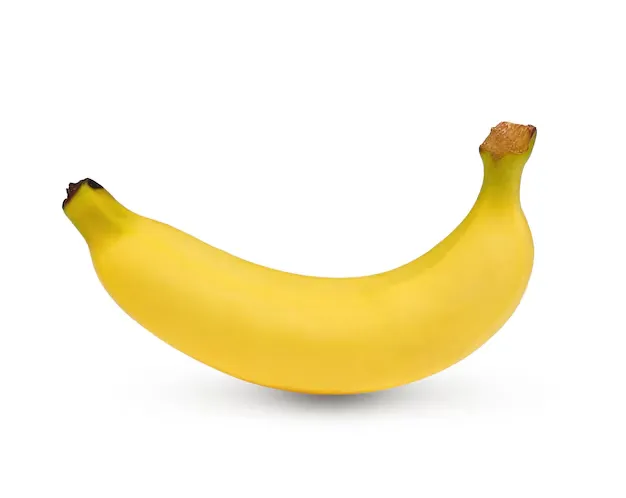
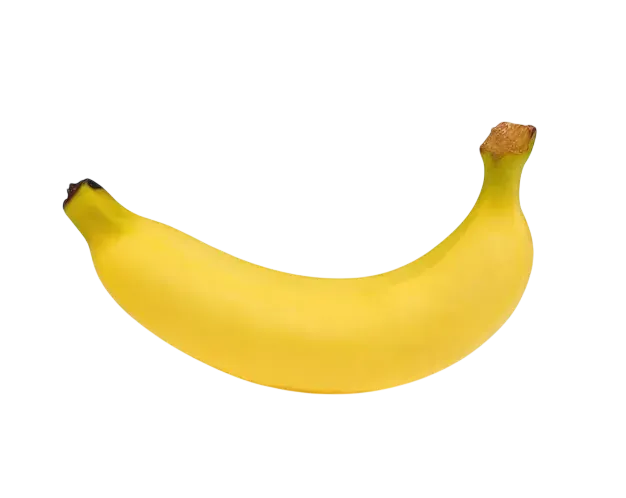
feat(catalog): redesign product detail template

diff --git a/apps/catalog/templates/catalog/redesign/product_detail.html b/apps/catalog/templates/catalog/redesign/product_detail.html
@@ -1,0 +1,108 @@
+{% extends "redesign/base.html" %}
+{% load static i18n %}
+
+{% block title %}{{ product.name }}{% endblock %}
+
+{% block content %}
+	<section class="flex flex-col gap-8">
+		<div class="flex flex-col">
+			{% include "redesign/includes/_breadcrumbs.html" with breadcrumbs=breadcrumbs %}
+		</div>
+
+		<div class="flex gap-8 max-md:flex-col">
+			<div class="sticky top-[109px] flex-1 self-start min-w-0 flex gap-2 max-md:static max-md:flex-col-reverse">
+			  <div id="thumbs" class="flex flex-col gap-2 max-md:flex-row">
+			    {% for image in product.images.all %}
+			      <div class="flex items-center bg-base-200 size-20 rounded-2xl overflow-hidden cursor-pointer border border-transparent" data-index="{{ forloop.counter0 }}">
+			        <img class="object-cover" src="{{ image.image.url }}" alt="" draggable="false">
+			      </div>
+			    {% endfor %}
+			  </div>
+
+			  <div id="embla" class="relative w-full aspect-square bg-base-200 rounded-2xl overflow-hidden">
+			    <div id="embla-container" class="flex h-full">
+			      {% if product.images.all %}
+			        {% for image in product.images.all %}
+			          <div class="flex-none basis-full min-w-0 h-full">
+			            <img class="w-full h-full object-contain" src="{{ image.image.url }}" alt="" draggable="false">
+			          </div>
+			        {% endfor %}
+			      {% else %}
+			        <div class="flex-none basis-full min-w-0 h-full">
+			          <img class="w-full h-full object-contain" src="{% static 'catalog/img/default-product-image.webp' %}" alt="" draggable="false">
+			        </div>
+			      {% endif %}
+			    </div>
+			  </div>
+			</div>
+
+			<div class="flex-1 min-w-0 flex flex-col gap-4">
+				<div class="flex flex-col gap-3 mb-4 font-bold">
+					<p class="inline-flex items-center gap-1 text-sm">
+						<svg class="size-4 fill-yellow-300" xmlns="http://www.w3.org/2000/svg" viewBox="0 0 24 24" fill="currentColor"><path fill-rule="evenodd" d="M13.3621 2.56546C12.826 1.40315 11.174 1.40315 10.6379 2.56546L8.50501 7.18955L3.44814 7.78912C2.17705 7.93983 1.66657 9.51091 2.60632 10.38L6.345 13.8374L5.35257 18.832C5.10311 20.0875 6.43955 21.0585 7.55647 20.4333L12 17.946L16.4435 20.4333C17.5604 21.0585 18.8969 20.0875 18.6474 18.832L17.655 13.8374L21.3937 10.38C22.3334 9.51091 21.8229 7.93983 20.5518 7.78912L15.495 7.18955L13.3621 2.56546Z" clip-rule="evenodd"></path></svg>
+					  <span class="text-base-content">4,74</span> <span class="text-base-content/60">(1428 оценок)</span>
+					</p>
+					<h1 class="font-bold text-base-content text-3xl max-md:text-2xl">{{ product.name }}</h1>
+
+					{% if product.discount %}
+				    <p class="inline-flex gap-2 items-baseline font-bold">
+		          <span class="text-2xl text-base-content p-2 bg-yellow-300 rounded-2xl">{{ product.final_price }} ₽</span>
+					    <span class="relative text-xl text-base-content/60 after:text-red-400 after:absolute after:left-0 after:right-0 after:top-1/2 after:h-px after:bg-current after:rotate-[-15deg]">{{ product.price }} ₽</span>
+				    </p>
+	        {% else %}
+						<p class="font-bold text-base-content text-2xl">{{ product.price }} ₽</p>
+					{% endif %}
+
+			    {% if product.stock %}
+	          {% if not product.pk in cart_product_pks %}
+	            <form action="{% url 'carts:cart-item-create' product_pk=product.pk %}" method="post" novalidate>
+	              {% csrf_token %}
+	              <button class="button button--primary w-[200px] max-md:w-full">{% trans "Add to Cart" %}</button>
+	            </form>
+	          {% else %}
+	            <button class="button button--disabled w-[200px] max-md:w-full" disabled>{% trans "In cart" %}</button>
+	          {% endif %}
+		      {% else %}
+		        <button class="button button--disabled w-[250px] max-md:w-full" disabled>{% trans "Not available" %}</button>
+		      {% endif %}
+				</div>
+
+				<div class="flex flex-col gap-1">
+					<h2 class="text-base-content text-lg font-bold">{% trans "Nutritional value" %}</h2>
+					<p class="text-base-content text-base">
+						{% trans "Proteins" %} – {{ product.nutrition.proteins|floatformat:"1u" }},
+						{% trans "fats" %} – {{ product.nutrition.fats|floatformat:"1u" }},
+						{% trans "carbs" %} – {{ product.nutrition.carbs|floatformat:"1u" }},
+						{% trans "calories" %} – {{ product.nutrition.calories|floatformat:"1u" }}
+					</p>
+				</div>
+
+				<div class="flex flex-col gap-1">
+					<h2 class="text-base-content text-lg font-bold">{% trans "Composition" %}</h2>
+					<p class="text-base-content text-base">{{ product.composition }}</p>
+				</div>
+
+				<div class="flex flex-col gap-1">
+					<h2 class="text-base-content text-lg font-bold">{% trans "Description" %}</h2>
+					<p class="text-base-content text-base">{{ product.description }}</p>
+				</div>
+
+				<div class="flex flex-col gap-1">
+					<h2 class="text-base-content text-lg font-bold">{% trans "Characteristics" %}</h2>
+					<ul class="flex flex-col gap-2">
+						{% for attribute, value in product.attributes.items %}
+							<li class="flex items-baseline gap-1">
+								<p class="text-base-content/60 whitespace-nowrap text-sm">{{ attribute }}</p>
+								<span class="flex-1 text-sm border-b border-dashed border-base-300"></span>
+								<p class="text-base-content text-sm text-right">
+									<span class="hidden max-md:inline">{{ value|truncatechars:20 }}</span>
+									<span class="max-md:hidden">{{ value }}</span>
+								</p>
+							</li>
+						{% endfor %}
+					</ul>
+				</div>
+			</div>
+		</div>
+	</section>
+{% endblock %}

diff --git a/static/js/carousel.js b/static/js/carousel.js
@@ -1,0 +1,23 @@
+document.addEventListener("DOMContentLoaded", () => {
+  const emblaNode = document.getElementById("embla")
+  if (!emblaNode) return
+
+  const embla = EmblaCarousel(emblaNode, { loop: true })
+  const thumbs = document.querySelectorAll("#thumbs [data-index]")
+
+  thumbs.forEach(el => {
+    el.addEventListener("click", () => embla.scrollTo(+el.dataset.index))
+  })
+
+  const updateThumbs = () => {
+    const active = embla.selectedScrollSnap()
+    thumbs.forEach(el => {
+      const isActive = +el.dataset.index === active
+      el.classList.toggle("border-base-300", isActive)
+      el.classList.toggle("border-transparent", !isActive)
+    })
+  }
+
+  embla.on("select", updateThumbs)
+  updateThumbs()
+})

diff --git a/templates/redesign/includes/_header.html b/templates/redesign/includes/_header.html
@@ -1,9 +1,9 @@
 {% load static i18n %}
 
-<header class="bg-base-100 select-none sticky h-[77px] inset-x-0 top-0 z-10 border-b border-base-300">
+<header class="bg-base-100 select-none sticky h-[80px] inset-x-0 top-0 z-10 border-b border-base-300">
 	<div class="flex items-center justify-between gap-8 py-4 px-8 max-md:px-4 max-w-page mx-auto">
 		<a class="flex items-center gap-2" href="{% url 'pages:home' %}">
-			<img class="size-11" src="{% static 'img/logo.png' %}" alt="" draggable="false">
+			<img class="size-12" src="{% static 'img/logo.png' %}" alt="" draggable="false">
 			<div>
 				<p class="font-bold text-base text-base-content leading-none">Марлин</p>
 				<small class="text-xs text-base-content/60 leading-none block">{% trans "Fresh products near you" %}</small>
@@ -19,26 +19,27 @@
 			<nav class="max-md:hidden">
 				<ul class="flex items-end justify-center gap-8 text-sm">
 					<li>
-						<a class="flex flex-col items-center link text-sm {% if current_view_name == 'catalog:category-list' %}link--active{% endif %}" href="{% url 'catalog:category-list' %}">
+						<a class="flex flex-col items-center justify-center h-12 link text-sm {% if current_view_name == 'catalog:category-list' %}link--active{% endif %}" href="{% url 'catalog:category-list' %}">
 							<svg class="size-6" xmlns="http://www.w3.org/2000/svg" viewBox="0 0 256 256" fill="currentColor"><g stroke-width="0"></g><g stroke-linecap="round" stroke-linejoin="round"></g><g><path d="M120,48v64a7.9954,7.9954,0,0,1-8,8H48a7.99539,7.99539,0,0,1-8-8V48a7.99539,7.99539,0,0,1,8-8h64A7.9954,7.9954,0,0,1,120,48Zm88-8H144a7.99539,7.99539,0,0,0-8,8v64a7.99539,7.99539,0,0,0,8,8h64a7.9954,7.9954,0,0,0,8-8V48A7.9954,7.9954,0,0,0,208,40Zm-96,96H48a7.99539,7.99539,0,0,0-8,8v64a7.99539,7.99539,0,0,0,8,8h64a7.9954,7.9954,0,0,0,8-8V144A7.9954,7.9954,0,0,0,112,136Zm96,0H144a7.99539,7.99539,0,0,0-8,8v64a7.99539,7.99539,0,0,0,8,8h64a7.9954,7.9954,0,0,0,8-8V144A7.9954,7.9954,0,0,0,208,136Z"></path></g></svg>
 							{% trans "Catalog" %}
 						</a>
 					</li>
 					<li>
-	          <a class="flex flex-col items-center link text-sm {% if current_view_name == 'carts:detail' %}link--active{% endif %}" href="{% url 'carts:detail' %}">
+	          <a class="flex flex-col items-center justify-center h-12 link text-sm {% if current_view_name == 'carts:detail' %}link--active{% endif %}" href="{% url 'carts:detail' %}">
 		          <svg class="size-6" xmlns="http://www.w3.org/2000/svg" viewBox="0 0 24 24" fill="currentColor"><g stroke-width="0"></g><g stroke-linecap="round" stroke-linejoin="round"></g><g><path fill-rule="evenodd" clip-rule="evenodd" d="M5.57386 4.69147C4.74068 5.38295 4.52122 6.55339 4.08231 8.89427L3.33231 12.8943C2.71512 16.186 2.40652 17.8318 3.30624 18.9159C4.20595 20 5.88048 20 9.22954 20H14.7704C18.1195 20 19.794 20 20.6937 18.9159C21.5934 17.8318 21.2849 16.186 20.6677 12.8943L19.9177 8.89427C19.4787 6.55339 19.2593 5.38295 18.4261 4.69147C17.5929 4 16.4021 4 14.0204 4H9.97954C7.59787 4 6.40703 4 5.57386 4.69147ZM9.87822 7.75007C10.1875 8.62497 11.0219 9.25 12.0004 9.25C12.9789 9.25 13.8133 8.62497 14.1225 7.75007C14.2606 7.35953 14.6891 7.15483 15.0796 7.29287C15.4701 7.43091 15.6748 7.8594 15.5368 8.24993C15.0224 9.70541 13.6343 10.75 12.0004 10.75C10.3664 10.75 8.97839 9.70541 8.46396 8.24993C8.32592 7.8594 8.53061 7.43091 8.92115 7.29287C9.31169 7.15483 9.74018 7.35953 9.87822 7.75007Z"></path></g></svg>
 		          {% trans "Cart" %}
 	          </a>
 					</li>
 					{% if not request.user.is_authenticated %}
 						<li>
-							<a class="flex flex-col items-center link text-sm {% if current_view_name == 'accounts:signin' %}link--active{% endif %}" href="{% url 'accounts:signin' %}"><svg class="w-6 h-6" xmlns="http://www.w3.org/2000/svg" viewBox="0 0 24 24" fill="none"><g stroke-width="0"></g><g stroke-linecap="round" stroke-linejoin="round"></g><g><path d="M20 12C20 7.58172 16.4183 4 12 4M12 20C14.5264 20 16.7792 18.8289 18.2454 17" stroke="currentColor" stroke-width="1.5" stroke-linecap="round"></path><path d="M4 12H14M14 12L11 9M14 12L11 15" stroke="currentColor" stroke-width="1.5" stroke-linecap="round" stroke-linejoin="round"></path></g></svg>
+							<a class="flex flex-col items-center justify-center h-12 link text-sm {% if current_view_name == 'accounts:signin' %}link--active{% endif %}" href="{% url 'accounts:signin' %}">
+								<svg class="size-6" xmlns="http://www.w3.org/2000/svg" viewBox="0 0 24 24" fill="none"><g stroke-width="0"></g><g stroke-linecap="round" stroke-linejoin="round"></g><g><path d="M20 12C20 7.58172 16.4183 4 12 4M12 20C14.5264 20 16.7792 18.8289 18.2454 17" stroke="currentColor" stroke-width="1.5" stroke-linecap="round"></path><path d="M4 12H14M14 12L11 9M14 12L11 15" stroke="currentColor" stroke-width="1.5" stroke-linecap="round" stroke-linejoin="round"></path></g></svg>
 								{% trans "Sign in" %}
 							</a>
 						</li>
 					{% else %}
 						<li>
-							<a class="flex flex-col items-center link text-sm {% if current_view_name == 'accounts:profile' %}link--active{% endif %}" href="{% url 'accounts:profile' %}">
+							<a class="flex flex-col items-center justify-center h-12 link text-sm {% if current_view_name == 'accounts:profile' %}link--active{% endif %}" href="{% url 'accounts:profile' %}">
 								<svg class="size-6" xmlns="http://www.w3.org/2000/svg" viewBox="0 0 24 24" fill="currentColor"><path d="M16.5454 8.82505C16.5454 11.5028 14.3746 13.6735 11.6969 13.6735C9.01913 13.6735 6.84839 11.5028 6.84839 8.82505C6.84839 6.1473 9.01913 3.97656 11.6969 3.97656C14.3746 3.97656 16.5454 6.1473 16.5454 8.82505Z"></path><path d="M7.63062 14.6484C5.01417 15.8674 2.96437 18.1474 1.99988 20.9549H21.9999C21.0354 18.1474 18.9856 15.8674 16.3691 14.6484C15.1527 15.564 13.6396 16.1067 11.9999 16.1067C10.3601 16.1067 8.84709 15.564 7.63062 14.6484Z"></path></svg>
 								{{ request.user.first_name }}
 							</a>
@@ -46,7 +47,7 @@
 						<li>
 							<form action="{% url 'accounts:signout' %}" method="post">
 								{% csrf_token %}
-			          <button class="flex flex-col items-center link text-sm" type="submit">
+			          <button class="flex flex-col items-center justify-center h-12 link text-sm" type="submit">
 									<svg class="size-6" xmlns="http://www.w3.org/2000/svg" viewBox="0 0 24 24" fill="none"><g stroke-width="0"></g><g stroke-linecap="round" stroke-linejoin="round"></g><g><path d="M10 12H20M20 12L17 9M20 12L17 15" stroke="currentColor" stroke-width="1.5" stroke-linecap="round" stroke-linejoin="round"></path> <path d="M4 12C4 7.58172 7.58172 4 12 4M12 20C9.47362 20 7.22075 18.8289 5.75463 17" stroke="currentColor" stroke-width="1.5" stroke-linecap="round"></path></g></svg>
 				          {% trans "Sign out" %}
 			          </button>
@@ -63,7 +64,7 @@
 			</button>
 
 			<div id="mobile-menu" class="fixed top-0 right-0 bottom-0 w-full bg-base-100 z-20 translate-x-full transition-transform duration-300 ease-in-out min-md:hidden">
-				<div class="flex items-center justify-between py-2 px-4 mx-auto border-b border-base-300 h-[77px]">
+				<div class="flex items-center justify-between py-2 px-4 mx-auto border-b border-base-300 h-[80px]">
 					<span class="font-bold">{% trans "Menu" %}</span>
 					<button id="close-mobile-menu-btn" class="flex items-center justify-center size-8 link">
 					  <svg class="size-6" xmlns="http://www.w3.org/2000/svg" viewBox="0 0 24 24" fill="none">
@@ -87,7 +88,8 @@
 						</li>
 						{% if not request.user.is_authenticated %}
 							<li>
-								<a class="flex items-center gap-2 link text-sm {% if current_view_name == 'accounts:signin' %}link--active{% endif %}" href="{% url 'accounts:signin' %}"><svg class="w-6 h-6" xmlns="http://www.w3.org/2000/svg" viewBox="0 0 24 24" fill="none"><g stroke-width="0"></g><g stroke-linecap="round" stroke-linejoin="round"></g><g><path d="M20 12C20 7.58172 16.4183 4 12 4M12 20C14.5264 20 16.7792 18.8289 18.2454 17" stroke="currentColor" stroke-width="1.5" stroke-linecap="round"></path><path d="M4 12H14M14 12L11 9M14 12L11 15" stroke="currentColor" stroke-width="1.5" stroke-linecap="round" stroke-linejoin="round"></path></g></svg>
+								<a class="flex items-center gap-2 link text-sm {% if current_view_name == 'accounts:signin' %}link--active{% endif %}" href="{% url 'accounts:signin' %}">
+									<svg class="size-6" xmlns="http://www.w3.org/2000/svg" viewBox="0 0 24 24" fill="none"><g stroke-width="0"></g><g stroke-linecap="round" stroke-linejoin="round"></g><g><path d="M20 12C20 7.58172 16.4183 4 12 4M12 20C14.5264 20 16.7792 18.8289 18.2454 17" stroke="currentColor" stroke-width="1.5" stroke-linecap="round"></path><path d="M4 12H14M14 12L11 9M14 12L11 15" stroke="currentColor" stroke-width="1.5" stroke-linecap="round" stroke-linejoin="round"></path></g></svg>
 									{% trans "Sign in" %}
 								</a>
 							</li>

diff --git a/static/css/redesign/input.css b/static/css/redesign/input.css
@@ -31,14 +31,18 @@
   }
 
   .input {
-    @apply rounded-full text-base py-3 px-6 outline-none bg-base-200 text-base-content;
+    @apply rounded-full text-base px-5 py-3 h-12 bg-base-100 outline-none text-base-content border border-base-300;
   }
 
   .button {
-    @apply rounded-full font-semibold text-base transition duration-300 ease-in-out py-3 px-6;
+    @apply rounded-full text-base px-5 py-3 h-12 cursor-pointer font-semibold transition duration-300 ease-in-out;
   }
 
   .button--primary {
     @apply bg-primary text-primary-content hover:bg-primary/80;
+  }
+
+  .button--disabled {
+    @apply cursor-default text-primary-content !bg-primary/80;
   }
 }

diff --git a/templates/redesign/base.html b/templates/redesign/base.html
@@ -17,12 +17,14 @@
 	</head>
 	<body class="flex flex-col font-body bg-base-100 font-medium relative min-h-screen min-h-[100dvh]">
 		{% include "redesign/includes/_header.html" %}
-			<main class="flex flex-col flex-[1_0_auto] {% block mix %}{% endblock %}">
+			<main class="flex flex-col flex-auto {% block mix %}{% endblock %}">
 		    <div class="w-full max-w-page mx-auto p-8 max-md:p-4">
 	        {% block content %}{% endblock %}
 		    </div>
 			</main>
 		{% include "redesign/includes/_footer.html" %}
+		<script src="{% static 'js/embla-carousel.umd.js' %}"></script>
+	  <script src="{% static 'js/carousel.js' %}"></script>
 		{% block js %}{% endblock %}
 	</body>
 </html>

diff --git a/templates/redesign/includes/_breadcrumbs.html b/templates/redesign/includes/_breadcrumbs.html
@@ -1,5 +1,5 @@
 <nav>
-	<ul class="flex items-center">
+	<ul class="flex items-center flex-wrap">
 		{% for breadcrumb in breadcrumbs %}
       {% if not forloop.last %}
 				<li class="inline-flex items-center after:content-['/'] after:mx-2 after:text-base-content/60 after:text-sm">

diff --git a/static/js/embla-carousel.umd.js b/static/js/embla-carousel.umd.js
@@ -1,0 +1,1 @@
+!function(n,t){"object"==typeof exports&&"undefined"!=typeof module?module.exports=t():"function"==typeof define&&define.amd?define(t):(n="undefined"!=typeof globalThis?globalThis:n||self).EmblaCarousel=t()}(this,(function(){"use strict";function n(n){return"number"==typeof n}function t(n){return"string"==typeof n}function e(n){return"boolean"==typeof n}function r(n){return"[object Object]"===Object.prototype.toString.call(n)}function o(n){return Math.abs(n)}function i(n){return Math.sign(n)}function c(n,t){return o(n-t)}function u(n){return f(n).map(Number)}function s(n){return n[a(n)]}function a(n){return Math.max(0,n.length-1)}function d(n,t){return t===a(n)}function l(n,t=0){return Array.from(Array(n),((n,e)=>t+e))}function f(n){return Object.keys(n)}function p(n,t){return[n,t].reduce(((n,t)=>(f(t).forEach((e=>{const o=n[e],i=t[e],c=r(o)&&r(i);n[e]=c?p(o,i):i})),n)),{})}function m(n,t){return void 0!==t.MouseEvent&&n instanceof t.MouseEvent}function g(){let n=[];const t={add:function(e,r,o,i={passive:!0}){let c;if("addEventListener"in e)e.addEventListener(r,o,i),c=()=>e.removeEventListener(r,o,i);else{const n=e;n.addListener(o),c=()=>n.removeListener(o)}return n.push(c),t},clear:function(){n=n.filter((n=>n()))}};return t}function h(n,t,e,r){const o=g(),i=1e3/60;let c=null,u=0,s=0;function a(n){if(!s)return;c||(c=n,e(),e());const o=n-c;for(c=n,u+=o;u>=i;)e(),u-=i;r(u/i),s&&(s=t.requestAnimationFrame(a))}function d(){t.cancelAnimationFrame(s),c=null,u=0,s=0}return{init:function(){o.add(n,"visibilitychange",(()=>{n.hidden&&(c=null,u=0)}))},destroy:function(){d(),o.clear()},start:function(){s||(s=t.requestAnimationFrame(a))},stop:d,update:e,render:r}}function x(n=0,t=0){const e=o(n-t);function r(t){return t<n}function i(n){return n>t}function c(n){return r(n)||i(n)}return{length:e,max:t,min:n,constrain:function(e){return c(e)?r(e)?n:t:e},reachedAny:c,reachedMax:i,reachedMin:r,removeOffset:function(n){return e?n-e*Math.ceil((n-t)/e):n}}}function y(n,t,e){const{constrain:r}=x(0,n),i=n+1;let c=u(t);function u(n){return e?o((i+n)%i):r(n)}function s(){return c}function a(){return y(n,s(),e)}const d={get:s,set:function(n){return c=u(n),d},add:function(n){return a().set(s()+n)},clone:a};return d}function v(n,t,r,u,s,a,d,l,f,p,h,y,v,b,S,w,E,L,D){const{cross:I,direction:M}=n,A=["INPUT","SELECT","TEXTAREA"],F={passive:!1},T=g(),O=g(),P=x(50,225).constrain(b.measure(20)),z={mouse:300,touch:400},H={mouse:500,touch:600},k=S?43:25;let V=!1,B=0,C=0,N=!1,R=!1,j=!1,G=!1;function q(n){if(!m(n,u)&&n.touches.length>=2)return U(n);const t=a.readPoint(n),e=a.readPoint(n,I),r=c(t,B),o=c(e,C);if(!R&&!G){if(!n.cancelable)return U(n);if(R=r>o,!R)return U(n)}const i=a.pointerMove(n);r>w&&(j=!0),p.useFriction(.3).useDuration(.75),l.start(),s.add(M(i)),n.preventDefault()}function U(n){const t=h.byDistance(0,!1).index!==y.get(),e=a.pointerUp(n)*(S?H:z)[G?"mouse":"touch"],r=function(n,t){const e=y.add(-1*i(n)),r=h.byDistance(n,!S).distance;return S||o(n)<P?r:E&&t?.5*r:h.byIndex(e.get(),0).distance}(M(e),t),u=function(n,t){if(0===n||0===t)return 0;if(o(n)<=o(t))return 0;const e=c(o(n),o(t));return o(e/n)}(e,r),s=k-10*u,d=L+u/50;R=!1,N=!1,O.clear(),p.useDuration(s).useFriction(d),f.distance(r,!S),G=!1,v.emit("pointerUp")}function W(n){j&&(n.stopPropagation(),n.preventDefault(),j=!1)}return{init:function(n){if(!D)return;function o(o){(e(D)||D(n,o))&&function(n){const e=m(n,u);if(G=e,j=S&&e&&!n.buttons&&V,V=c(s.get(),d.get())>=2,e&&0!==n.button)return;if(function(n){const t=n.nodeName||"";return A.includes(t)}(n.target))return;N=!0,a.pointerDown(n),p.useFriction(0).useDuration(0),s.set(d),function(){const n=G?r:t;O.add(n,"touchmove",q,F).add(n,"touchend",U).add(n,"mousemove",q,F).add(n,"mouseup",U)}(),B=a.readPoint(n),C=a.readPoint(n,I),v.emit("pointerDown")}(o)}const i=t;T.add(i,"dragstart",(n=>n.preventDefault()),F).add(i,"touchmove",(()=>{}),F).add(i,"touchend",(()=>{})).add(i,"touchstart",o).add(i,"mousedown",o).add(i,"touchcancel",U).add(i,"contextmenu",U).add(i,"click",W,!0)},destroy:function(){T.clear(),O.clear()},pointerDown:function(){return N}}}function b(n,t){let e,r;function i(n){return n.timeStamp}function c(e,r){const o="client"+("x"===(r||n.scroll)?"X":"Y");return(m(e,t)?e:e.touches[0])[o]}return{pointerDown:function(n){return e=n,r=n,c(n)},pointerMove:function(n){const t=c(n)-c(r),o=i(n)-i(e)>170;return r=n,o&&(e=n),t},pointerUp:function(n){if(!e||!r)return 0;const t=c(r)-c(e),u=i(n)-i(e),s=i(n)-i(r)>170,a=t/u;return u&&!s&&o(a)>.1?a:0},readPoint:c}}function S(n,t,r,i,c,u,s){const a=[n].concat(i);let d,l,f=[],p=!1;function m(n){return c.measureSize(s.measure(n))}return{init:function(c){u&&(l=m(n),f=i.map(m),d=new ResizeObserver((r=>{(e(u)||u(c,r))&&function(e){for(const r of e){if(p)return;const e=r.target===n,u=i.indexOf(r.target),s=e?l:f[u];if(o(m(e?n:i[u])-s)>=.5){c.reInit(),t.emit("resize");break}}}(r)})),r.requestAnimationFrame((()=>{a.forEach((n=>d.observe(n)))})))},destroy:function(){p=!0,d&&d.disconnect()}}}function w(n,t,e,r,i){const c=i.measure(10),u=i.measure(50),s=x(.1,.99);let a=!1;function d(){return!a&&(!!n.reachedAny(e.get())&&!!n.reachedAny(t.get()))}return{shouldConstrain:d,constrain:function(i){if(!d())return;const a=n.reachedMin(t.get())?"min":"max",l=o(n[a]-t.get()),f=e.get()-t.get(),p=s.constrain(l/u);e.subtract(f*p),!i&&o(f)<c&&(e.set(n.constrain(e.get())),r.useDuration(25).useBaseFriction())},toggleActive:function(n){a=!n}}}function E(n,t,e,r){const o=t.min+.1,i=t.max+.1,{reachedMin:c,reachedMax:u}=x(o,i);return{loop:function(t){if(!function(n){return 1===n?u(e.get()):-1===n&&c(e.get())}(t))return;const o=n*(-1*t);r.forEach((n=>n.add(o)))}}}function L(n,t,e,r,c){const{reachedAny:u,removeOffset:a,constrain:d}=r;function l(n){return n.concat().sort(((n,t)=>o(n)-o(t)))[0]}function f(t,r){const o=[t,t+e,t-e];if(!n)return t;if(!r)return l(o);const c=o.filter((n=>i(n)===r));return c.length?l(c):s(o)-e}return{byDistance:function(e,r){const i=c.get()+e,{index:s,distance:l}=function(e){const r=n?a(e):d(e),i=t.map(((n,t)=>({diff:f(n-r,0),index:t}))).sort(((n,t)=>o(n.diff)-o(t.diff))),{index:c}=i[0];return{index:c,distance:r}}(i),p=!n&&u(i);return!r||p?{index:s,distance:e}:{index:s,distance:e+f(t[s]-l,0)}},byIndex:function(n,e){return{index:n,distance:f(t[n]-c.get(),e)}},shortcut:f}}function D(t,r,o,i,c,u,s,a){const d={passive:!0,capture:!0};let l=0;function f(n){"Tab"===n.code&&(l=(new Date).getTime())}return{init:function(p){a&&(u.add(document,"keydown",f,!1),r.forEach(((r,f)=>{u.add(r,"focus",(r=>{(e(a)||a(p,r))&&function(e){if((new Date).getTime()-l>10)return;s.emit("slideFocusStart"),t.scrollLeft=0;const r=o.findIndex((n=>n.includes(e)));n(r)&&(c.useDuration(0),i.index(r,0),s.emit("slideFocus"))}(f)}),d)})))}}}function I(t){let e=t;function r(t){return n(t)?t:t.get()}return{get:function(){return e},set:function(n){e=r(n)},add:function(n){e+=r(n)},subtract:function(n){e-=r(n)}}}function M(n,t){const e="x"===n.scroll?function(n){return`translate3d(${n}px,0px,0px)`}:function(n){return`translate3d(0px,${n}px,0px)`},r=t.style;let o=null,i=!1;return{clear:function(){i||(r.transform="",t.getAttribute("style")||t.removeAttribute("style"))},to:function(t){if(i)return;const c=(u=n.direction(t),Math.round(100*u)/100);var u;c!==o&&(r.transform=e(c),o=c)},toggleActive:function(n){i=!n}}}function A(n,t,e,r,o,i,c,s,a){const d=.5,l=u(o),f=u(o).reverse(),p=function(){const n=c[0];return h(g(f,n),e,!1)}().concat(function(){const n=t-c[0]-1;return h(g(l,n),-e,!0)}());function m(n,t){return n.reduce(((n,t)=>n-o[t]),t)}function g(n,t){return n.reduce(((n,e)=>m(n,t)>0?n.concat([e]):n),[])}function h(o,c,u){const l=function(n){return i.map(((e,o)=>({start:e-r[o]+d+n,end:e+t-d+n})))}(c);return o.map((t=>{const r=u?0:-e,o=u?e:0,i=u?"end":"start",c=l[t][i];return{index:t,loopPoint:c,slideLocation:I(-1),translate:M(n,a[t]),target:()=>s.get()>c?r:o}}))}return{canLoop:function(){return p.every((({index:n})=>m(l.filter((t=>t!==n)),t)<=.1))},clear:function(){p.forEach((n=>n.translate.clear()))},loop:function(){p.forEach((n=>{const{target:t,translate:e,slideLocation:r}=n,o=t();o!==r.get()&&(e.to(o),r.set(o))}))},loopPoints:p}}function F(n,t,r){let o,i=!1;return{init:function(c){r&&(o=new MutationObserver((n=>{i||(e(r)||r(c,n))&&function(n){for(const e of n)if("childList"===e.type){c.reInit(),t.emit("slidesChanged");break}}(n)})),o.observe(n,{childList:!0}))},destroy:function(){o&&o.disconnect(),i=!0}}}function T(n,t,e,r){const o={};let i,c=null,u=null,s=!1;return{init:function(){i=new IntersectionObserver((n=>{s||(n.forEach((n=>{const e=t.indexOf(n.target);o[e]=n})),c=null,u=null,e.emit("slidesInView"))}),{root:n.parentElement,threshold:r}),t.forEach((n=>i.observe(n)))},destroy:function(){i&&i.disconnect(),s=!0},get:function(n=!0){if(n&&c)return c;if(!n&&u)return u;const t=function(n){return f(o).reduce(((t,e)=>{const r=parseInt(e),{isIntersecting:i}=o[r];return(n&&i||!n&&!i)&&t.push(r),t}),[])}(n);return n&&(c=t),n||(u=t),t}}}function O(t,e,r,i,c,d,l,f,p){const{startEdge:m,endEdge:g,direction:h}=t,x=n(r);return{groupSlides:function(n){return x?function(n,t){return u(n).filter((n=>n%t==0)).map((e=>n.slice(e,e+t)))}(n,r):function(n){return n.length?u(n).reduce(((t,r,u)=>{const x=s(t)||0,y=0===x,v=r===a(n),b=c[m]-d[x][m],S=c[m]-d[r][g],w=!i&&y?h(l):0,E=o(S-(!i&&v?h(f):0)-(b+w));return u&&E>e+p&&t.push(r),v&&t.push(n.length),t}),[]).map(((t,e,r)=>{const o=Math.max(r[e-1]||0);return n.slice(o,t)})):[]}(n)}}}function P(n,e,r,f,p,m,P){const{align:z,axis:H,direction:k,startIndex:V,loop:B,duration:C,dragFree:N,dragThreshold:R,inViewThreshold:j,slidesToScroll:G,skipSnaps:q,containScroll:U,watchResize:W,watchSlides:$,watchDrag:Q,watchFocus:X}=m,Y={measure:function(n){const{offsetTop:t,offsetLeft:e,offsetWidth:r,offsetHeight:o}=n;return{top:t,right:e+r,bottom:t+o,left:e,width:r,height:o}}},J=Y.measure(e),K=r.map(Y.measure),Z=function(n,t){const e="rtl"===t,r="y"===n,o=!r&&e?-1:1;return{scroll:r?"y":"x",cross:r?"x":"y",startEdge:r?"top":e?"right":"left",endEdge:r?"bottom":e?"left":"right",measureSize:function(n){const{height:t,width:e}=n;return r?t:e},direction:function(n){return n*o}}}(H,k),_=Z.measureSize(J),nn=function(n){return{measure:function(t){return n*(t/100)}}}(_),tn=function(n,e){const r={start:function(){return 0},center:function(n){return o(n)/2},end:o};function o(n){return e-n}return{measure:function(o,i){return t(n)?r[n](o):n(e,o,i)}}}(z,_),en=!B&&!!U,rn=B||!!U,{slideSizes:on,slideSizesWithGaps:cn,startGap:un,endGap:sn}=function(n,t,e,r,i,c){const{measureSize:u,startEdge:a,endEdge:l}=n,f=e[0]&&i,p=function(){if(!f)return 0;const n=e[0];return o(t[a]-n[a])}(),m=function(){if(!f)return 0;const n=c.getComputedStyle(s(r));return parseFloat(n.getPropertyValue(`margin-${l}`))}(),g=e.map(u),h=e.map(((n,t,e)=>{const r=!t,o=d(e,t);return r?g[t]+p:o?g[t]+m:e[t+1][a]-n[a]})).map(o);return{slideSizes:g,slideSizesWithGaps:h,startGap:p,endGap:m}}(Z,J,K,r,rn,p),an=O(Z,_,G,B,J,K,un,sn,2),{snaps:dn,snapsAligned:ln}=function(n,t,e,r,i){const{startEdge:c,endEdge:u}=n,{groupSlides:a}=i,d=a(r).map((n=>s(n)[u]-n[0][c])).map(o).map(t.measure),l=r.map((n=>e[c]-n[c])).map((n=>-o(n))),f=a(l).map((n=>n[0])).map(((n,t)=>n+d[t]));return{snaps:l,snapsAligned:f}}(Z,tn,J,K,an),fn=-s(dn)+s(cn),{snapsContained:pn,scrollContainLimit:mn}=function(n,t,e,r,o){const i=x(-t+n,0),u=e.map(((n,t)=>{const{min:r,max:o}=i,c=i.constrain(n),u=!t,s=d(e,t);return u?o:s||l(r,c)?r:l(o,c)?o:c})).map((n=>parseFloat(n.toFixed(3)))),a=function(){const n=u[0],t=s(u);return x(u.lastIndexOf(n),u.indexOf(t)+1)}();function l(n,t){return c(n,t)<=1}return{snapsContained:function(){if(t<=n+o)return[i.max];if("keepSnaps"===r)return u;const{min:e,max:c}=a;return u.slice(e,c)}(),scrollContainLimit:a}}(_,fn,ln,U,2),gn=en?pn:ln,{limit:hn}=function(n,t,e){const r=t[0];return{limit:x(e?r-n:s(t),r)}}(fn,gn,B),xn=y(a(gn),V,B),yn=xn.clone(),vn=u(r),bn=h(f,p,(()=>(({dragHandler:n,scrollBody:t,scrollBounds:e,options:{loop:r}})=>{r||e.constrain(n.pointerDown()),t.seek()})(Hn)),(n=>(({scrollBody:n,translate:t,location:e,offsetLocation:r,previousLocation:o,scrollLooper:i,slideLooper:c,dragHandler:u,animation:s,eventHandler:a,scrollBounds:d,options:{loop:l}},f)=>{const p=n.settled(),m=!d.shouldConstrain(),g=l?p:p&&m,h=g&&!u.pointerDown();h&&s.stop();const x=e.get()*f+o.get()*(1-f);r.set(x),l&&(i.loop(n.direction()),c.loop()),t.to(r.get()),h&&a.emit("settle"),g||a.emit("scroll")})(Hn,n))),Sn=gn[xn.get()],wn=I(Sn),En=I(Sn),Ln=I(Sn),Dn=I(Sn),In=function(n,t,e,r,c,u){let s=0,a=0,d=c,l=u,f=n.get(),p=0;function m(n){return d=n,h}function g(n){return l=n,h}const h={direction:function(){return a},duration:function(){return d},velocity:function(){return s},seek:function(){const t=r.get()-n.get();let o=0;return d?(e.set(n),s+=t/d,s*=l,f+=s,n.add(s),o=f-p):(s=0,e.set(r),n.set(r),o=t),a=i(o),p=f,h},settled:function(){return o(r.get()-t.get())<.001},useBaseFriction:function(){return g(u)},useBaseDuration:function(){return m(c)},useFriction:g,useDuration:m};return h}(wn,Ln,En,Dn,C,.68),Mn=L(B,gn,fn,hn,Dn),An=function(n,t,e,r,o,i,c){function u(o){const u=o.distance,s=o.index!==t.get();i.add(u),u&&(r.duration()?n.start():(n.update(),n.render(1),n.update())),s&&(e.set(t.get()),t.set(o.index),c.emit("select"))}return{distance:function(n,t){u(o.byDistance(n,t))},index:function(n,e){const r=t.clone().set(n);u(o.byIndex(r.get(),e))}}}(bn,xn,yn,In,Mn,Dn,P),Fn=function(n){const{max:t,length:e}=n;return{get:function(n){return e?(n-t)/-e:0}}}(hn),Tn=g(),On=T(e,r,P,j),{slideRegistry:Pn}=function(n,t,e,r,o,i){const{groupSlides:c}=o,{min:u,max:f}=r;return{slideRegistry:function(){const r=c(i),o=!n||"keepSnaps"===t;return 1===e.length?[i]:o?r:r.slice(u,f).map(((n,t,e)=>{const r=!t,o=d(e,t);return r?l(s(e[0])+1):o?l(a(i)-s(e)[0]+1,s(e)[0]):n}))}()}}(en,U,gn,mn,an,vn),zn=D(n,r,Pn,An,In,Tn,P,X),Hn={ownerDocument:f,ownerWindow:p,eventHandler:P,containerRect:J,slideRects:K,animation:bn,axis:Z,dragHandler:v(Z,n,f,p,Dn,b(Z,p),wn,bn,An,In,Mn,xn,P,nn,N,R,q,.68,Q),eventStore:Tn,percentOfView:nn,index:xn,indexPrevious:yn,limit:hn,location:wn,offsetLocation:Ln,previousLocation:En,options:m,resizeHandler:S(e,P,p,r,Z,W,Y),scrollBody:In,scrollBounds:w(hn,Ln,Dn,In,nn),scrollLooper:E(fn,hn,Ln,[wn,Ln,En,Dn]),scrollProgress:Fn,scrollSnapList:gn.map(Fn.get),scrollSnaps:gn,scrollTarget:Mn,scrollTo:An,slideLooper:A(Z,_,fn,on,cn,dn,gn,Ln,r),slideFocus:zn,slidesHandler:F(e,P,$),slidesInView:On,slideIndexes:vn,slideRegistry:Pn,slidesToScroll:an,target:Dn,translate:M(Z,e)};return Hn}const z={align:"center",axis:"x",container:null,slides:null,containScroll:"trimSnaps",direction:"ltr",slidesToScroll:1,inViewThreshold:0,breakpoints:{},dragFree:!1,dragThreshold:10,loop:!1,skipSnaps:!1,duration:25,startIndex:0,active:!0,watchDrag:!0,watchResize:!0,watchSlides:!0,watchFocus:!0};function H(n){function t(n,t){return p(n,t||{})}const e={mergeOptions:t,optionsAtMedia:function(e){const r=e.breakpoints||{},o=f(r).filter((t=>n.matchMedia(t).matches)).map((n=>r[n])).reduce(((n,e)=>t(n,e)),{});return t(e,o)},optionsMediaQueries:function(t){return t.map((n=>f(n.breakpoints||{}))).reduce(((n,t)=>n.concat(t)),[]).map(n.matchMedia)}};return e}function k(n,e,r){const o=n.ownerDocument,i=o.defaultView,c=H(i),u=function(n){let t=[];return{init:function(e,r){return t=r.filter((({options:t})=>!1!==n.optionsAtMedia(t).active)),t.forEach((t=>t.init(e,n))),r.reduce(((n,t)=>Object.assign(n,{[t.name]:t})),{})},destroy:function(){t=t.filter((n=>n.destroy()))}}}(c),s=g(),a=function(){let n,t={};function e(n){return t[n]||[]}const r={init:function(t){n=t},emit:function(t){return e(t).forEach((e=>e(n,t))),r},off:function(n,o){return t[n]=e(n).filter((n=>n!==o)),r},on:function(n,o){return t[n]=e(n).concat([o]),r},clear:function(){t={}}};return r}(),{mergeOptions:d,optionsAtMedia:l,optionsMediaQueries:f}=c,{on:p,off:m,emit:h}=a,x=A;let y,v,b,S,w=!1,E=d(z,k.globalOptions),L=d(E),D=[];function I(t){const e=P(n,b,S,o,i,t,a);if(t.loop&&!e.slideLooper.canLoop()){return I(Object.assign({},t,{loop:!1}))}return e}function M(e,r){w||(E=d(E,e),L=l(E),D=r||D,function(){const{container:e,slides:r}=L,o=t(e)?n.querySelector(e):e;b=o||n.children[0];const i=t(r)?b.querySelectorAll(r):r;S=[].slice.call(i||b.children)}(),y=I(L),f([E,...D.map((({options:n})=>n))]).forEach((n=>s.add(n,"change",A))),L.active&&(y.translate.to(y.location.get()),y.animation.init(),y.slidesInView.init(),y.slideFocus.init(V),y.eventHandler.init(V),y.resizeHandler.init(V),y.slidesHandler.init(V),y.options.loop&&y.slideLooper.loop(),b.offsetParent&&S.length&&y.dragHandler.init(V),v=u.init(V,D)))}function A(n,t){const e=O();F(),M(d({startIndex:e},n),t),a.emit("reInit")}function F(){y.dragHandler.destroy(),y.eventStore.clear(),y.translate.clear(),y.slideLooper.clear(),y.resizeHandler.destroy(),y.slidesHandler.destroy(),y.slidesInView.destroy(),y.animation.destroy(),u.destroy(),s.clear()}function T(n,t,e){L.active&&!w&&(y.scrollBody.useBaseFriction().useDuration(!0===t?0:L.duration),y.scrollTo.index(n,e||0))}function O(){return y.index.get()}const V={canScrollNext:function(){return y.index.add(1).get()!==O()},canScrollPrev:function(){return y.index.add(-1).get()!==O()},containerNode:function(){return b},internalEngine:function(){return y},destroy:function(){w||(w=!0,s.clear(),F(),a.emit("destroy"),a.clear())},off:m,on:p,emit:h,plugins:function(){return v},previousScrollSnap:function(){return y.indexPrevious.get()},reInit:x,rootNode:function(){return n},scrollNext:function(n){T(y.index.add(1).get(),n,-1)},scrollPrev:function(n){T(y.index.add(-1).get(),n,1)},scrollProgress:function(){return y.scrollProgress.get(y.offsetLocation.get())},scrollSnapList:function(){return y.scrollSnapList},scrollTo:T,selectedScrollSnap:O,slideNodes:function(){return S},slidesInView:function(){return y.slidesInView.get()},slidesNotInView:function(){return y.slidesInView.get(!1)}};return M(e,r),setTimeout((()=>a.emit("init")),0),V}return k.globalOptions=void 0,k}));

diff --git a/apps/catalog/views/product_detail_view.py b/apps/catalog/views/product_detail_view.py
@@ -11,7 +11,7 @@ from apps.catalog.selectors import CategorySelector, ProductSelector
 
 
 class ProductDetailView(DetailView):
-    template_name = "catalog/product_detail.html"
+    template_name = "catalog/redesign/product_detail.html"
     context_object_name = "product"
     slug_url_kwarg = "product_slug"
 